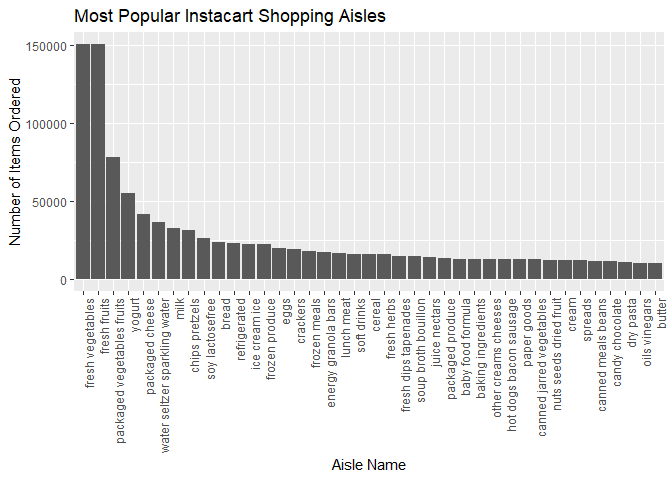
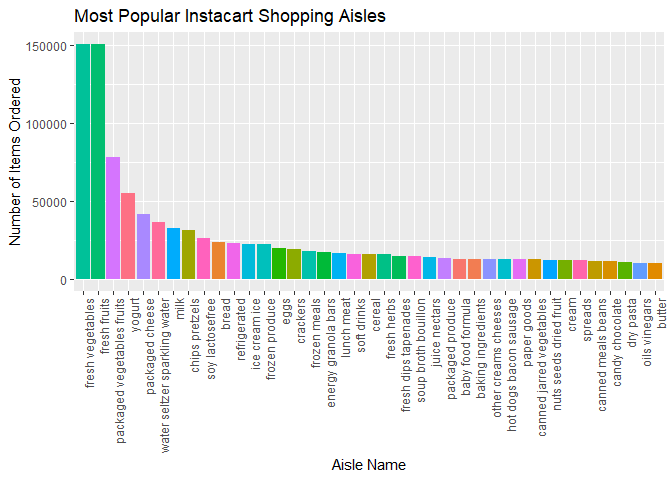
el fin (the end)

Changed region(s): [[0.0938, 0.0938, 1.0, 0.5938]]

diff --git a/p8105_hw3_are2132.md b/p8105_hw3_are2132.md
@@ -28,20 +28,20 @@ First we load in the instacart data.
 data("instacart")
 ```
 
-This dataset represents a (non-random) sample of Instacart orders from
-2017. The dataset has 1384617 rows, each of which represents one product
-from a specific order of a unique shopper. The data has 15 columns which
-give information about the specific item in each row. The variables
-`order_id`, `product_id`, and `user_id` identify the specific order
-number, product, and shopper, respectively. The variable `reordered`
-indicates if the shopper has previously ordered that item, in which case
-`reordered = 1`, otherwise `reordered = 0`. `order_number` indicates how
-many orders this shopper has made. Taking order \#1 as an example,
-`order_number = 4` means that this shopper has made three orders in the
-past and this is their fourth. The variables `product_name` is self
-explanatory, and the variables `aisle`/`aisle_id` and
-`department`/`department_id` indicate where to find that product in the
-Instacart online market.
+This dataset represents a (non-random) sample of Instacart online
+grocery orders from 2017. The dataset has 1384617 rows, each of which
+represents one product from a specific order of a unique shopper. The
+data has 15 columns which give information about the specific item in
+each row. The variables `order_id`, `product_id`, and `user_id` identify
+the specific order number, product, and shopper, respectively. The
+variable `reordered` indicates if the shopper has previously ordered
+that item, in which case `reordered = 1`, otherwise `reordered = 0`.
+`order_number` indicates how many orders this shopper has made. Taking
+order \#1 as an example, `order_number = 4` means that this shopper has
+made three orders in the past and this is their fourth. The variables
+`product_name` is self explanatory, and the variables `aisle`/`aisle_id`
+and `department`/`department_id` indicate where to find that product in
+the Instacart online market.
 
 ## Dang these Virtual Aisles are Crowded
 
@@ -71,11 +71,13 @@ total, with the top six most popular shown above.
 #now make a plot of popular aisles
 aisles_ranked %>% 
   filter(n_items > 10000) %>% 
-  ggplot(aes(x = reorder(aisle,-n_items), y = n_items)) +
+  ggplot(aes(x = reorder(aisle,-n_items), y = n_items,
+             fill = aisle)) +
   geom_bar(stat = "identity") +
   ggtitle("Most Popular Instacart Shopping Aisles") +
   xlab("Aisle Name") + ylab("Number of Items Ordered") +
-  theme(axis.text.x = element_text(angle = 90, hjust = 1))
+  theme(legend.position = "none",
+        axis.text.x = element_text(angle = 90, hjust = 1))
 ```
 
 ![](p8105_hw3_are2132_files/figure-gfm/unnamed-chunk-3-1.png)<!-- -->
@@ -197,7 +199,7 @@ brfss_health = brfss_smart2010 %>%
   rename("state" = "locationabbr",
          "county" = "locationdesc") %>% 
   filter(topic == "Overall Health") %>% #only this topic 
-  mutate(                       #convert to ordered factor
+  mutate(   #convert to ordered factor
     response = factor(response, 
                          c("Poor", "Fair", "Good",
                            "Very good", "Excellent"))
@@ -208,18 +210,31 @@ str(pull(brfss_health,response)) #check factor levels
 
     ##  Factor w/ 5 levels "Poor","Fair",..: 5 4 3 2 1 5 4 3 2 1 ...
 
-## States Observed at 7+ Locations????????????
+## States with Observations in 7+ Counties
 
 ``` r
 brfss_health %>% 
-  filter(year == 2002) %>% 
-  group_by(state) %>% 
-  count(county) %>% 
-  #filter(n >= 7) %>% 
-  view()
+  filter(year == 2002) %>%   #data from 2002
+  group_by(state) %>%        #group into states
+  summarize(  #tally numb of unique counties in each state
+    n_counties = n_distinct(county)
+  ) %>% 
+  filter(n_counties >= 7)   #only those with 7+
 ```
 
-^^I don’t know what this means RIP\!\!\!\!\!\!\!\!\!\!\!\!\!\!\!\!\!\!
+    ## # A tibble: 6 x 2
+    ##   state n_counties
+    ##   <chr>      <int>
+    ## 1 CT             7
+    ## 2 FL             7
+    ## 3 MA             8
+    ## 4 NC             7
+    ## 5 NJ             8
+    ## 6 PA            10
+
+In 2002, we conclude that Connecticut, Florida, Massachusetts, North
+Carolina, New Jersey, and Pennsylvania had observations taken from 7 or
+more counties.
 
 ## Spaghetti Plot of “Excellent” Values
 
@@ -235,7 +250,7 @@ brfss_health %>%
   distinct() %>%  #remove duplicate rows
   #plot it!
   ggplot(aes(x = year, y = avg_value_by_state)) + 
-  geom_line(aes(group = state)) +
+  geom_line(aes(group = state, color = state)) +
   ggtitle("Average Data Value by State 2002-2010") +
   xlab("Year") + ylab("Mean Data Value")
 ```
@@ -255,12 +270,15 @@ brfss_health %>%
   filter(state == "NY",  #only NY locations, 2006 & 2010
          year %in% c(2006, 2010)) %>% 
   #now make a boxplot of data_value for each response level
-  ggplot(aes(x = response, y = data_value)) +
+  ggplot(aes(x = response, y = data_value, 
+             fill = response)) +
   geom_boxplot() +
   facet_grid(~year) + #2 panels: 2006 and 2010 
+  
   ggtitle("Distribution of Responses in NY, 2006 & 2010") +
   xlab("Response") + ylab("Data Value") +
-  theme(axis.text.x = element_text(angle = 90, hjust = 1))
+  theme(legend.position = "none",
+        axis.text.x = element_text(angle = 90, hjust = 1))
 ```
 
 ![](p8105_hw3_are2132_files/figure-gfm/unnamed-chunk-9-1.png)<!-- -->
@@ -325,17 +343,27 @@ head(acceler_data)
     ## 5     1      1 Friday      5           75.0 Weekday 
     ## 6     1      1 Friday      6           66.3 Weekday
 
-Describe the dataset…
+This dataset gives the activity count as measured by the accelerometer
+for every minute over a 5 week period. We converted the original dataset
+from wide to long format, so that each row corresponds to one minute of
+measurement, with variables indicating the corresponding week number out
+of 5, day number out of 35, and day of the week along with a new
+variable `day_type` indicating if the day is a weekday or weekend. The
+variable of interest `activity_count` gives the accelerometer’s reading
+for that specific minute. Consequently, the final tidy dataset
+`acceler_data` has 50400 rows, which is equal to 35 days x 24 hours x 60
+minutes.
 
 ## Total Activity Per Day
 
 ``` r
+#use groupby/summarize to show total activity by day
 acceler_data %>% 
   group_by(day_id) %>% 
-  summarize( #create variable for total activity per day
+  summarize(  #create variable for total activity per day
     total_activity = sum(activity_count)
   ) %>% 
-  knitr::kable(caption = "Total Activity Time Per Day")
+  knitr::kable(caption = "Total Activity Count Per Day")
 ```
 
 | day\_id | total\_activity |
@@ -376,6 +404,77 @@ acceler_data %>%
 |      34 |       367824.00 |
 |      35 |       445366.00 |
 
-Total Activity Time Per Day
+Total Activity Count Per Day
 
-Trends apparent….
+``` r
+#now do the same process but make a line plot
+acceler_data %>% 
+  group_by(day_id) %>% 
+  summarize(
+    total_activity = sum(activity_count),
+    day_type = min(day_type) #cheat to keep this variable
+  ) %>% 
+  #line plot of day vs. total count over the 35 days
+  ggplot(aes(x = day_id, y = total_activity)) +
+  geom_line() +  
+  geom_point(aes(color = day_type)) + #color for 
+                                      #weekday vs. weekend
+  scale_x_continuous(
+    breaks = seq(0, 35, 5)
+    ) +
+  labs(
+    title = "Total Activity Trend Over 5 Weeks", 
+    x = "Day Number", 
+    y = "Total Activity Count"
+  ) +
+  theme(plot.title = element_text(hjust = 0.5))
+```
+
+![](p8105_hw3_are2132_files/figure-gfm/unnamed-chunk-11-1.png)<!-- -->
+
+The total activity count per day does not have a clear overall trend; it
+spikes and dips frequently with local highs and lows occurring every 2
+days or so. The maximum total activity in one day occurrs on day 16,
+which is a Monday, with a total activity count of 685,910. The lowest
+activity totals occurr on days 24 and 31, both of which are Saturdays,
+each with a total count of 1,440. Based on this finding, I thought that
+perhaps weekends would have lower total activity compared to weekdays.
+However once I added color to distinguish weekdays vs. weekends, this
+hypothesis does not seem supported by the data.
+
+## Graph of Activity Levels by Day
+
+``` r
+acceler_data %>% 
+  #group_by(day_id) %>% #or day???
+  ggplot(aes(x = minute, y = activity_count)) +
+  geom_line(aes(group = day, color = day)) +
+  scale_x_continuous(
+    breaks = seq(0, 1500, 100)
+    ) +
+  labs(
+    title = "Activity Levels by Day", 
+    x = "Minute", 
+    y = "Activity Count"
+  ) +
+  theme(plot.title = element_text(hjust = 0.5))
+```
+
+![](p8105_hw3_are2132_files/figure-gfm/unnamed-chunk-12-1.png)<!-- -->
+
+Again there is not one clear pattern here, but we do see some trends
+over the course of the 24 hour period. Activity is generally pretty low
+before minute 300 or so, which corresponds to 5:00 AM. This makes sense
+as the subject is likely asleep. We see increased activity with many
+spikes from minutes 350-750 (5:30 AM - 12:30 PM), followed by decreased
+activity until about minute 950 (shortly before 4:00 PM). The period
+with the highest activity levels occurrs definitively from minutes
+1150-1300, or approximately 7:00- 9:30 PM in the evening. This is
+followed again by a period of very low activity, presumably for sleep.  
+It’s difficult to distinguish clear differences based on days of the
+week. Generally the periods of high and low activity seem to be similar
+among all days, although there is a good amount of variation. This is
+likely due to the semi-random nature that comes with monitoring activity
+in a minute-by-minute fashion. For example, we can’t expect minute 647
+on Tuesday to have the exact same activity output as minute 647 on
+Wednesday, even if the subject’s routine is consistent between days.
